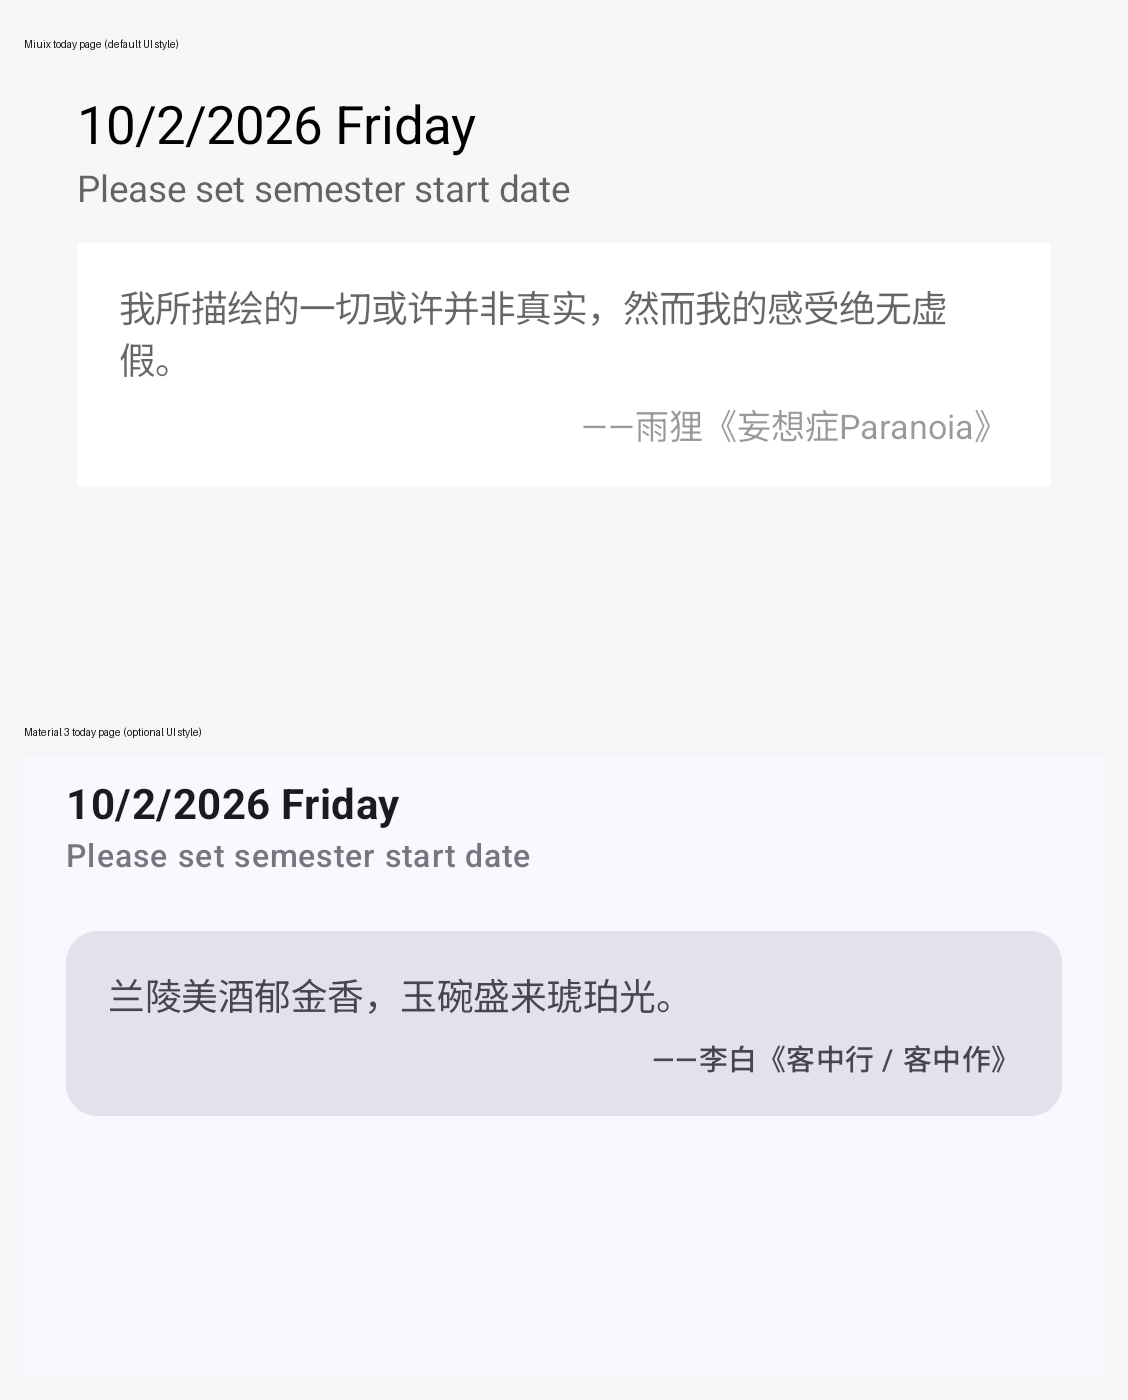
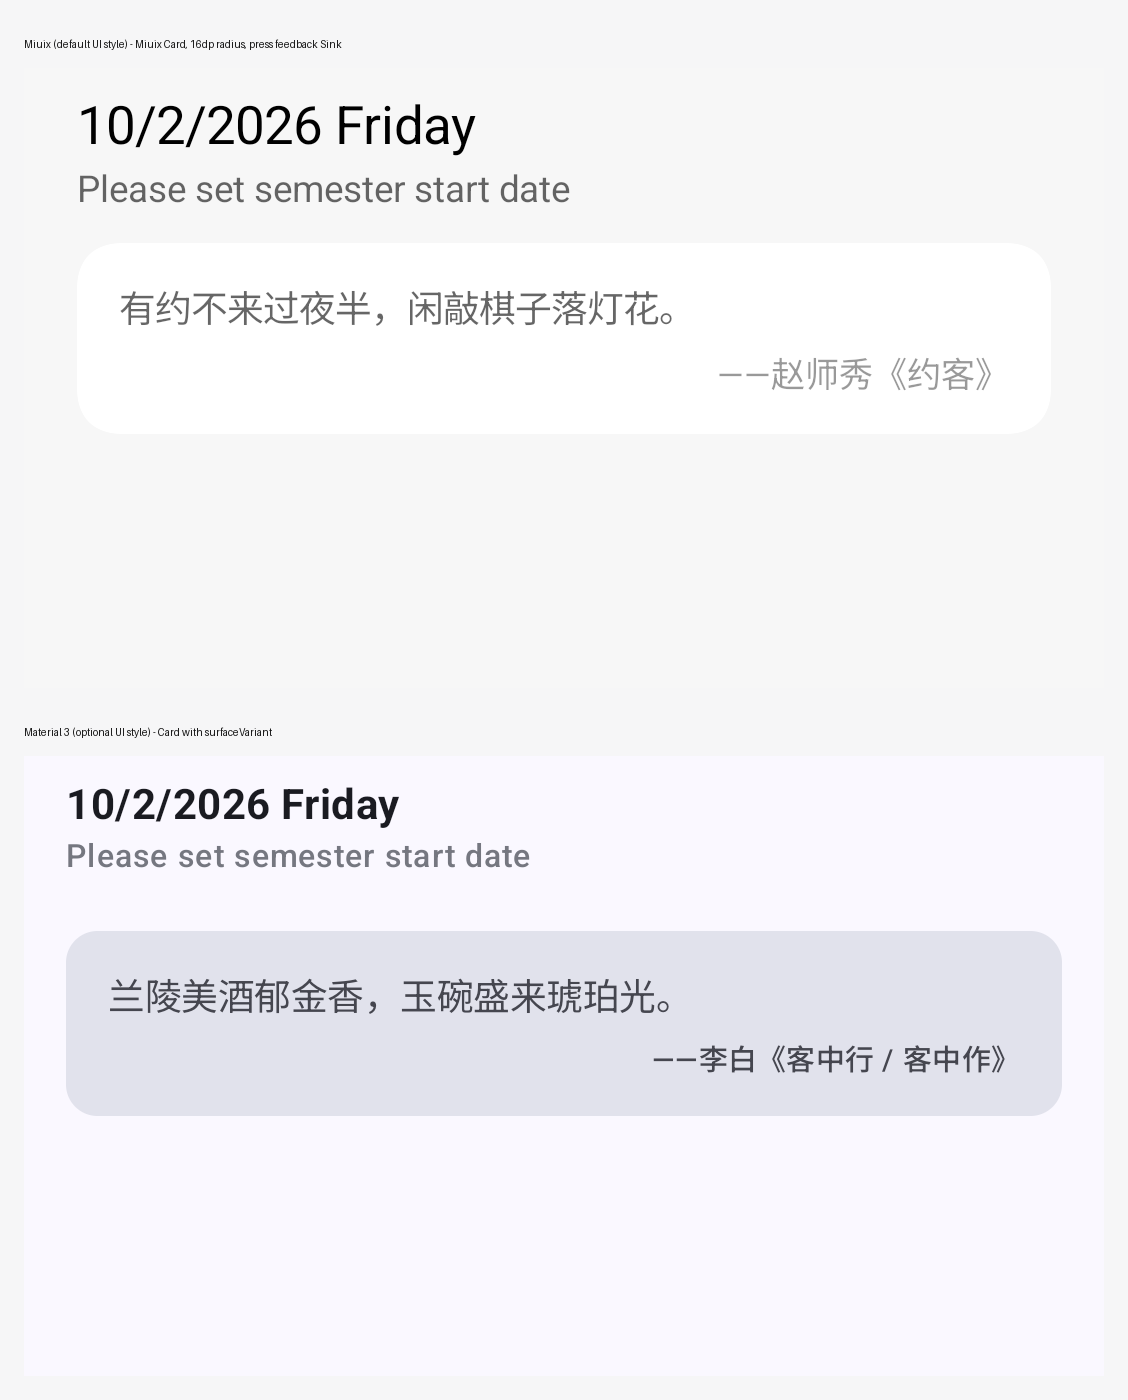
fix(miuix): 每日一言卡片改用 Miuix Card，修正圆角与按压反馈
问题：卡片用了 `Surface` 而不是工程的 `Card`，两者默认形状不同，圆角明显与其他 Miuix 卡片不一致。

- 改用 `Card(onClick = ...)`：圆角取 `CardDefaults.CornerRadius`（16dp），与工程内其它 Miuix 卡片一致；
- `Card` 的 `pressFeedbackType` 默认为 `None`，要显式设为 `Sink` 才有官方下沉反馈；
- 内容直接写在 `Card` 的 `ColumnScope` 里，省掉多余的一层 Column。

验证（Android 15 模拟器，真机像素测量）：卡片可点区域 x=53..1026、y=555..745，
按左上角逐行左边界收敛估得圆角 ≈38–40px ≈ 15–16dp（420dpi 下 16dp = 42px），
与 `CardDefaults.CornerRadius` 一致；卡片为白色、页面底色 247 灰，边界清晰。
截图更新至 docs/images/daily-quote-card.png。

Changed region(s): [[0.0931, 0.1843, 0.8688, 0.3379], [0.5585, 0.2764, 0.6206, 0.3379]]

diff --git a/app/src/androidMain/kotlin/com/wild0408/nanxinshiguang/ui/miuix/components/MiuixDailyQuoteCard.kt b/app/src/androidMain/kotlin/com/wild0408/nanxinshiguang/ui/miuix/components/MiuixDailyQuoteCard.kt
@@ -1,6 +1,5 @@
 package com.wild0408.nanxinshiguang.ui.miuix.components
 
-import androidx.compose.foundation.layout.Column
 import androidx.compose.foundation.layout.fillMaxWidth
 import androidx.compose.foundation.layout.padding
 import androidx.compose.runtime.Composable
@@ -14,17 +13,22 @@ import com.wild0408.nanxinshiguang.data.model.DailyQuote
 import nanxinshiguang.generated.resources.Res
 import nanxinshiguang.generated.resources.a11y_refresh_daily_quote
 import org.jetbrains.compose.resources.stringResource
-import top.yukonga.miuix.kmp.basic.Surface
+import top.yukonga.miuix.kmp.basic.Card
+import top.yukonga.miuix.kmp.basic.CardDefaults
 import top.yukonga.miuix.kmp.basic.Text
 import top.yukonga.miuix.kmp.theme.MiuixTheme
+import top.yukonga.miuix.kmp.utils.PressFeedbackType
 
 /**
  * 「每日一言」卡片（Miuix）。
  *
- * 用官方 `Surface(onClick = ...)` 承载点击，从而获得 Miuix 默认的按压反馈
- * （`indication = LocalIndication.current`），而不是自己写 ripple/缩放动画。
+ * 用 Miuix 的 `Card` 承载：圆角取 `CardDefaults.CornerRadius`（16dp），与工程内其它 Miuix 卡片
+ * 完全一致——此前误用 `Surface`，它的默认形状与卡片圆角不同，导致圆角看起来不对。
  *
- * 形态与 Material 版保持一致：极简、引文两行、右下角出处、内边距 16/14dp。
+ * 按压反馈用 `pressFeedbackType = PressFeedbackType.Sink`（官方下沉效果）；该参数在 `Card` 上
+ * 默认是 `None`，不显式指定就没有任何反馈。
+ *
+ * 形态与 Material 版一致：极简、引文最多两行、右下角出处、内边距 16/14dp。
  */
 @Composable
 internal fun MiuixDailyQuoteCard(
@@ -33,10 +37,11 @@ internal fun MiuixDailyQuoteCard(
     modifier: Modifier = Modifier,
 ) {
     val refreshLabel = stringResource(Res.string.a11y_refresh_daily_quote)
-    Surface(
+    Card(
         onClick = onRefresh,
-        // Miuix 的 Surface 内部不透传 clickable 的 onClickLabel，这里补一个语义动作，
-        // 让读屏能说明"点击可换一句"，同时不覆盖卡片自身的正文内容。
+        pressFeedbackType = PressFeedbackType.Sink,
+        // Card 内部不透传 clickable 的 onClickLabel，补一个语义动作让读屏能说明"点击可换一句"，
+        // 同时不覆盖卡片自身的正文内容。
         modifier = modifier
             .fillMaxWidth()
             .semantics {
@@ -45,30 +50,25 @@ internal fun MiuixDailyQuoteCard(
                     true
                 }
             },
-        color = MiuixTheme.colorScheme.surfaceContainer,
+        colors = CardDefaults.defaultColors(color = MiuixTheme.colorScheme.surfaceContainer),
     ) {
-        Column(
-            modifier = Modifier
-                .fillMaxWidth()
-                .padding(horizontal = 16.dp, vertical = 14.dp)
-        ) {
+        Text(
+            text = quote.text,
+            style = MiuixTheme.textStyles.body2,
+            color = MiuixTheme.colorScheme.onSurfaceVariantSummary,
+            maxLines = 2,
+            overflow = TextOverflow.Ellipsis,
+            modifier = Modifier.padding(start = 16.dp, end = 16.dp, top = 14.dp),
+        )
+        quote.source?.let { source ->
             Text(
-                text = quote.text,
-                style = MiuixTheme.textStyles.body2,
-                color = MiuixTheme.colorScheme.onSurfaceVariantSummary,
-                maxLines = 2,
-                overflow = TextOverflow.Ellipsis,
+                text = source,
+                style = MiuixTheme.textStyles.footnote1,
+                color = MiuixTheme.colorScheme.onSurfaceVariantActions,
+                modifier = Modifier
+                    .align(Alignment.End)
+                    .padding(start = 16.dp, end = 16.dp, top = 6.dp, bottom = 14.dp),
             )
-            quote.source?.let { source ->
-                Text(
-                    text = source,
-                    style = MiuixTheme.textStyles.footnote1,
-                    color = MiuixTheme.colorScheme.onSurfaceVariantActions,
-                    modifier = Modifier
-                        .align(Alignment.End)
-                        .padding(top = 6.dp),
-                )
-            }
         }
     }
 }
